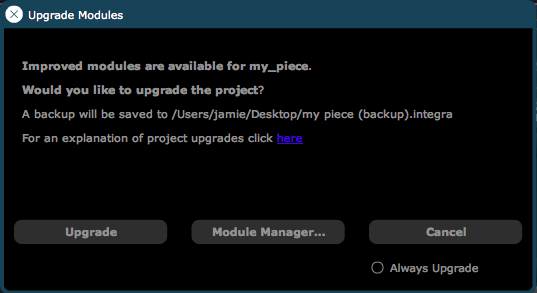
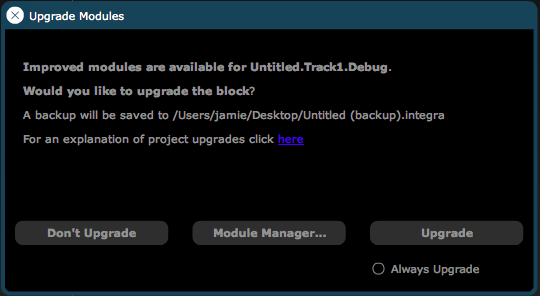
Re-named and re-ordered upgrade dialog buttons
The previous arrangement was confusing and it wasn't clear what "Cancel" meant. Now instead of the illogical "Cancel" on the right, we have "Don't Upgrade" on the left.

diff --git a/documentation/markdown/integra-live-help/integra-live-help.md b/documentation/markdown/integra-live-help/integra-live-help.md
@@ -295,7 +295,7 @@ When a *project*, *track* or *block* is opened or imported, and improved version
 - Click Upgrade to upgrade modules in the *project*, *track* or *block* to the Latest Official versions—these Latest Official versions will then be embedded in the project file and replace current instances of those modules
 - Check the Always Upgrade checkbox before clicking Upgrade to always upgrade *modules* in future without prompting—this option can later be unchecked using the [Module Manager](#module-management)
 - Click [Module Manager...](#module-management) to selectively upgrade specific modules 
-- Click Cancel to leave the project as it is—*modules* can always be upgraded later using the [Module Manager](#module-management)
+- Click Don't Upgrade to leave the project as it is—*modules* can always be upgraded later using the [Module Manager](#module-management)
 
 If modules are upgraded, an Upgrade Report will be shown, providing a detailed report of the changes that have been made.
 
